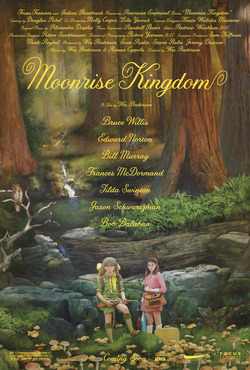
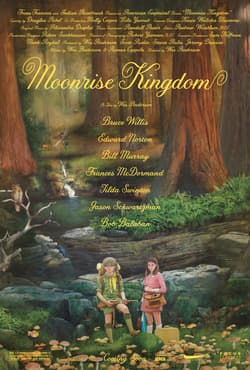
Сжатие изображений постеров #396
- для оптимизации через сервис sqoosh сжаты
постеры

diff --git a/const/films.js b/const/films.js
@@ -4,7 +4,7 @@ const initialFilms = [
     id: 0,
     name: 'The Grand Budapest Hotel',
     posterImage: '/images/posters/The grand budapest hotel poster.jpg',
-    previewImage: '/images/the-grand-budapest-hotel-poster.jpg',
+    previewImage: '/images/the-grand-budapest-hotel.jpg',
     videoLink: 'https://assets.mixkit.co/videos/4078/4078-720.mp4',
     tmdbId: 120467,
     description: `In the 1930s, the Grand Budapest Hotel is a popular European ski
@@ -29,179 +29,179 @@ const initialFilms = [
     similarMockFilms: ['The Grand Budapest Hotel', 'Johnny English'],
   },
 
-  // {
-  //   id: 1,
-  //   name: 'Moonrise Kingdom',
-  //   posterImage: '/images/posters/Moonrise Kingdom.jpg',
-  //   previewImage: '/images/moonrise-kingdom.jpg',
-  //   playerImage: '/images/posters/The grand budapest hotel poster.jpg',
-  //   videoLink:
-  //     'https://assets.mixkit.co/videos/4078/4078-720.mp4',
-  //   description:
-  //     'A pair of young lovers flee their New England town, which causes a local search party to fan out to find them',
-  //   rating: 3,
-  //   scoresCount: 800,
-  //   director: 'Wes Anderson',
-  //   starring: ['Jared Gilman', 'Kara Hayward', 'Bruce Willis'],
-  //   runTime: 94,
-  //   genre: ['Comedy'],
-  //   similarFilms: [],
-  //   released: 2012,
-  //   isFavorite: false,
-  //   similarMockFilms: ['Moonrise Kingdom', 'The Darjeeling Limited'],
-  // },
+  {
+    id: 1,
+    name: 'Moonrise Kingdom',
+    posterImage: '/images/posters/Moonrise Kingdom.jpg',
+    previewImage: '/images/moonrise-kingdom.jpg',
+    playerImage: '/images/posters/The grand budapest hotel poster.jpg',
+    videoLink:
+      'https://assets.mixkit.co/videos/4078/4078-720.mp4',
+    description:
+      'A pair of young lovers flee their New England town, which causes a local search party to fan out to find them',
+    rating: 3,
+    scoresCount: 800,
+    director: 'Wes Anderson',
+    starring: ['Jared Gilman', 'Kara Hayward', 'Bruce Willis'],
+    runTime: 94,
+    genre: ['Comedy'],
+    similarFilms: [],
+    released: 2012,
+    isFavorite: false,
+    similarMockFilms: ['Moonrise Kingdom', 'The Darjeeling Limited'],
+  },
 
-  // {
-  //   id: 2,
-  //   name: 'Pulp Fiction',
-  //   posterImage: '/images/posters/Pulp Fiction.jpg',
-  //   previewImage: '/images/pulp-fiction.jpg',
-  //   videoLink:
-  //     'https://assets.mixkit.co/videos/4078/4078-720.mp4',
-  //   description:
-  //     'Pulp Fiction is the story of three men — Jules, Vincent, and Butch — and the choices each of them makes regarding life and death, honor and disgrace, and the vagaries of chance',
-  //   rating: 8.8,
-  //   scoresCount: 700,
-  //   director: 'Quentin Tarantino',
-  //   starring: [
-  //     'John Travolta',
-  //     'Samuel L. Jackson',
-  //     'Bruce Willis',
-  //     'Tim Roth',
-  //     'Ving Rhames',
-  //     'Uma Thurman',
-  //   ],
-  //   runTime: 154,
-  //   genre: ['Drama'],
-  //   similarFilms: [],
-  //   released: 1994,
-  //   isFavorite: true,
-  //   similarMockFilms: ['Pulp Fiction', 'Johnny English'],
-  // },
+  {
+    id: 2,
+    name: 'Pulp Fiction',
+    posterImage: '/images/posters/Pulp Fiction.jpg',
+    previewImage: '/images/pulp-fiction.jpg',
+    videoLink:
+      'https://assets.mixkit.co/videos/4078/4078-720.mp4',
+    description:
+      'Pulp Fiction is the story of three men — Jules, Vincent, and Butch — and the choices each of them makes regarding life and death, honor and disgrace, and the vagaries of chance',
+    rating: 8.8,
+    scoresCount: 700,
+    director: 'Quentin Tarantino',
+    starring: [
+      'John Travolta',
+      'Samuel L. Jackson',
+      'Bruce Willis',
+      'Tim Roth',
+      'Ving Rhames',
+      'Uma Thurman',
+    ],
+    runTime: 154,
+    genre: ['Drama'],
+    similarFilms: [],
+    released: 1994,
+    isFavorite: true,
+    similarMockFilms: ['Pulp Fiction', 'Johnny English'],
+  },
 
-  // {
-  //   id: 3,
-  //   name: 'The Darjeeling Limited',
-  //   posterImage: '/images/posters/The Darjeeling Limited.jpg',
-  //   previewImage: '/images/dardjeeling-limited.jpg',
-  //   videoLink:
-  //     'https://assets.mixkit.co/videos/4078/4078-720.mp4',
-  //   description:
-  //     'A year after their father`s funeral, three brothers travel across India by train in an attempt to bond with each other',
-  //   rating: 7.2,
-  //   scoresCount: 185,
-  //   director: 'Wes Anderson',
-  //   starring: [
-  //     'Owen Wilson',
-  //     'Adrien Brody',
-  //     'Jason Schwartzman',
-  //     'Anjelica Huston',
-  //   ],
-  //   runTime: 91,
-  //   genre: ['Adventure'],
-  //   similarFilms: [],
-  //   released: 2007,
-  //   isFavorite: true,
-  //   similarMockFilms: ['The Darjeeling Limited', 'Moonrise Kingdom'],
-  // },
+  {
+    id: 3,
+    name: 'The Darjeeling Limited',
+    posterImage: '/images/posters/The Darjeeling Limited.jpg',
+    previewImage: '/images/dardjeeling-limited.jpg',
+    videoLink:
+      'https://assets.mixkit.co/videos/4078/4078-720.mp4',
+    description:
+      'A year after their father`s funeral, three brothers travel across India by train in an attempt to bond with each other',
+    rating: 7.2,
+    scoresCount: 185,
+    director: 'Wes Anderson',
+    starring: [
+      'Owen Wilson',
+      'Adrien Brody',
+      'Jason Schwartzman',
+      'Anjelica Huston',
+    ],
+    runTime: 91,
+    genre: ['Adventure'],
+    similarFilms: [],
+    released: 2007,
+    isFavorite: true,
+    similarMockFilms: ['The Darjeeling Limited', 'Moonrise Kingdom'],
+  },
 
-  // {
-  //   id: 4,
-  //   name: 'The Aviator',
-  //   posterImage: '/images/posters/The Aviator.jpg',
-  //   previewImage: '/images/aviator.jpg',
-  //   videoLink:
-  //     'https://assets.mixkit.co/videos/4078/4078-720.mp4',
-  //   description:
-  //     'A biopic depicting the early years of legendary Director and aviator Howard Hughes` career from the late 1920s to the mid 1940s',
-  //   rating: 7.5,
-  //   scoresCount: 340,
-  //   director: 'Martin Scorsese',
-  //   starring: [
-  //     'Leonardo DiCaprio',
-  //     'Cate Blanchett',
-  //     'Kate Beckinsal',
-  //     'Jude Law',
-  //   ],
-  //   runTime: 170,
-  //   genre: ['Drama'],
-  //   similarFilms: [],
-  //   released: 2004,
-  //   isFavorite: false,
-  //   similarMockFilms: ['The Aviator', 'The Revenant'],
-  // },
+  {
+    id: 4,
+    name: 'The Aviator',
+    posterImage: '/images/posters/The Aviator.jpg',
+    previewImage: '/images/aviator.jpg',
+    videoLink:
+      'https://assets.mixkit.co/videos/4078/4078-720.mp4',
+    description:
+      'A biopic depicting the early years of legendary Director and aviator Howard Hughes` career from the late 1920s to the mid 1940s',
+    rating: 7.5,
+    scoresCount: 340,
+    director: 'Martin Scorsese',
+    starring: [
+      'Leonardo DiCaprio',
+      'Cate Blanchett',
+      'Kate Beckinsal',
+      'Jude Law',
+    ],
+    runTime: 170,
+    genre: ['Drama'],
+    similarFilms: [],
+    released: 2004,
+    isFavorite: false,
+    similarMockFilms: ['The Aviator', 'The Revenant'],
+  },
 
-  // {
-  //   id: 5,
-  //   name: 'The Revenant',
-  //   posterImage: '/images/posters/The Revenant.jpg',
-  //   previewImage: '/images/revenant.jpg',
-  //   videoLink:
-  //     'https://assets.mixkit.co/videos/4078/4078-720.mp4',
-  //   description:
-  //     'A frontiersman on a fur trading expedition in the 1820s fights for survival after being mauled by a bear and left for dead by members of his own hunting team',
-  //   rating: 8.0,
-  //   scoresCount: 300,
-  //   director: 'Alejandro G. Iñárritu',
-  //   starring: [
-  //     'Leonardo DiCaprio',
-  //     'Tom Hardy',
-  //     'Domhnall Gleeson',
-  //     'Will Poulter',
-  //   ],
-  //   runTime: 156,
-  //   genre: ['Action'],
-  //   similarFilms: [],
-  //   released: 2015,
-  //   isFavorite: false,
-  //   similarMockFilms: ['The Aviator', 'The Revenant'],
-  // },
+  {
+    id: 5,
+    name: 'The Revenant',
+    posterImage: '/images/posters/The Revenant.jpg',
+    previewImage: '/images/revenant.jpg',
+    videoLink:
+      'https://assets.mixkit.co/videos/4078/4078-720.mp4',
+    description:
+      'A frontiersman on a fur trading expedition in the 1820s fights for survival after being mauled by a bear and left for dead by members of his own hunting team',
+    rating: 8.0,
+    scoresCount: 300,
+    director: 'Alejandro G. Iñárritu',
+    starring: [
+      'Leonardo DiCaprio',
+      'Tom Hardy',
+      'Domhnall Gleeson',
+      'Will Poulter',
+    ],
+    runTime: 156,
+    genre: ['Action'],
+    similarFilms: [],
+    released: 2015,
+    isFavorite: false,
+    similarMockFilms: ['The Aviator', 'The Revenant'],
+  },
 
-  // {
-  //   id: 6,
-  //   name: 'Johnny English',
-  //   posterImage: '/images/posters/Johnny English.jpg',
-  //   previewImage: '/images/johnny-english.jpg',
-  //   videoLink:
-  //     'https://assets.mixkit.co/videos/4078/4078-720.mp4',
-  //   description:
-  //     'After a sudden attack on MI5, Johnny English, Britain`s most confident, yet unintelligent spy, becomes Britain`s only spy',
-  //   rating: 6.2,
-  //   scoresCount: 151,
-  //   director: 'Quentin Tarantino',
-  //   starring: ['Kevin Eldon', 'Emma Thompson', 'Adam James', 'Rowan Atkinson'],
-  //   runTime: 89,
-  //   genre: ['Comedy'],
-  //   similarFilms: [],
-  //   released: 2003,
-  //   isFavorite: true,
-  //   similarMockFilms: [
-  //     'Johnny English',
-  //     'The Grand Budapest Hotel',
-  //     'Pulp Fiction',
-  //   ],
-  // },
+  {
+    id: 6,
+    name: 'Johnny English',
+    posterImage: '/images/posters/Johnny English.jpg',
+    previewImage: '/images/johnny-english.jpg',
+    videoLink:
+      'https://assets.mixkit.co/videos/4078/4078-720.mp4',
+    description:
+      'After a sudden attack on MI5, Johnny English, Britain`s most confident, yet unintelligent spy, becomes Britain`s only spy',
+    rating: 6.2,
+    scoresCount: 151,
+    director: 'Quentin Tarantino',
+    starring: ['Kevin Eldon', 'Emma Thompson', 'Adam James', 'Rowan Atkinson'],
+    runTime: 89,
+    genre: ['Comedy'],
+    similarFilms: [],
+    released: 2003,
+    isFavorite: true,
+    similarMockFilms: [
+      'Johnny English',
+      'The Grand Budapest Hotel',
+      'Pulp Fiction',
+    ],
+  },
 
-  // {
-  //   id: 7,
-  //   name: 'Bohemian Rhapsody',
-  //   posterImage: '/images/posters/Bohemian Rhapsody.jpg',
-  //   previewImage: '/images/bohemian-rhapsody.jpg',
-  //   videoLink:
-  //     'https://assets.mixkit.co/videos/4078/4078-720.mp4',
-  //   description:
-  //     'The story of the legendary British rock band Queen and lead singer Freddie Mercury, leading up to their famous performance at Live Aid (1985)',
-  //   rating: 7.9,
-  //   scoresCount: 472,
-  //   director: 'Bryan Singer',
-  //   starring: ['Rami Malek', 'Lucy Boynton', 'Gwilym Lee', 'Ben Hardy'],
-  //   runTime: 134,
-  //   genre: ['Biography'],
-  //   similarFilms: [],
-  //   released: 2018,
-  //   isFavorite: false,
-  //   similarMockFilms: ['Bohemian Rhapsody', 'The Darjeeling Limited'],
-  // },
+  {
+    id: 7,
+    name: 'Bohemian Rhapsody',
+    posterImage: '/images/posters/Bohemian Rhapsody.jpg',
+    previewImage: '/images/bohemian-rhapsody.jpg',
+    videoLink:
+      'https://assets.mixkit.co/videos/4078/4078-720.mp4',
+    description:
+      'The story of the legendary British rock band Queen and lead singer Freddie Mercury, leading up to their famous performance at Live Aid (1985)',
+    rating: 7.9,
+    scoresCount: 472,
+    director: 'Bryan Singer',
+    starring: ['Rami Malek', 'Lucy Boynton', 'Gwilym Lee', 'Ben Hardy'],
+    runTime: 134,
+    genre: ['Biography'],
+    similarFilms: [],
+    released: 2018,
+    isFavorite: false,
+    similarMockFilms: ['Bohemian Rhapsody', 'The Darjeeling Limited'],
+  },
 ]
 
 const additionalFilms = [
@@ -209,8 +209,8 @@ const additionalFilms = [
     // пока ещё не смотрел но обязательно нужно
     id: 8,
     name: 'City Hunter',
-    posterImage: '/images/to-compress/posters/City Hunter poster.jpg',
-    previewImage: '/images/to-compress/City Hunter.jpg',
+    posterImage: '/images/posters/City Hunter poster.jpg',
+    previewImage: '/images/City Hunter.jpg',
     // videoLink: 'https://assets.mixkit.co/videos/4078/4078-720.mp4',
     tmdbId: 469274,
     description: `Nicky Larson, the best private investigator in the business, is called for a high-risk mission: to recover the perfume of Cupid, a perfume that would make irresistible the one who uses it.`,
